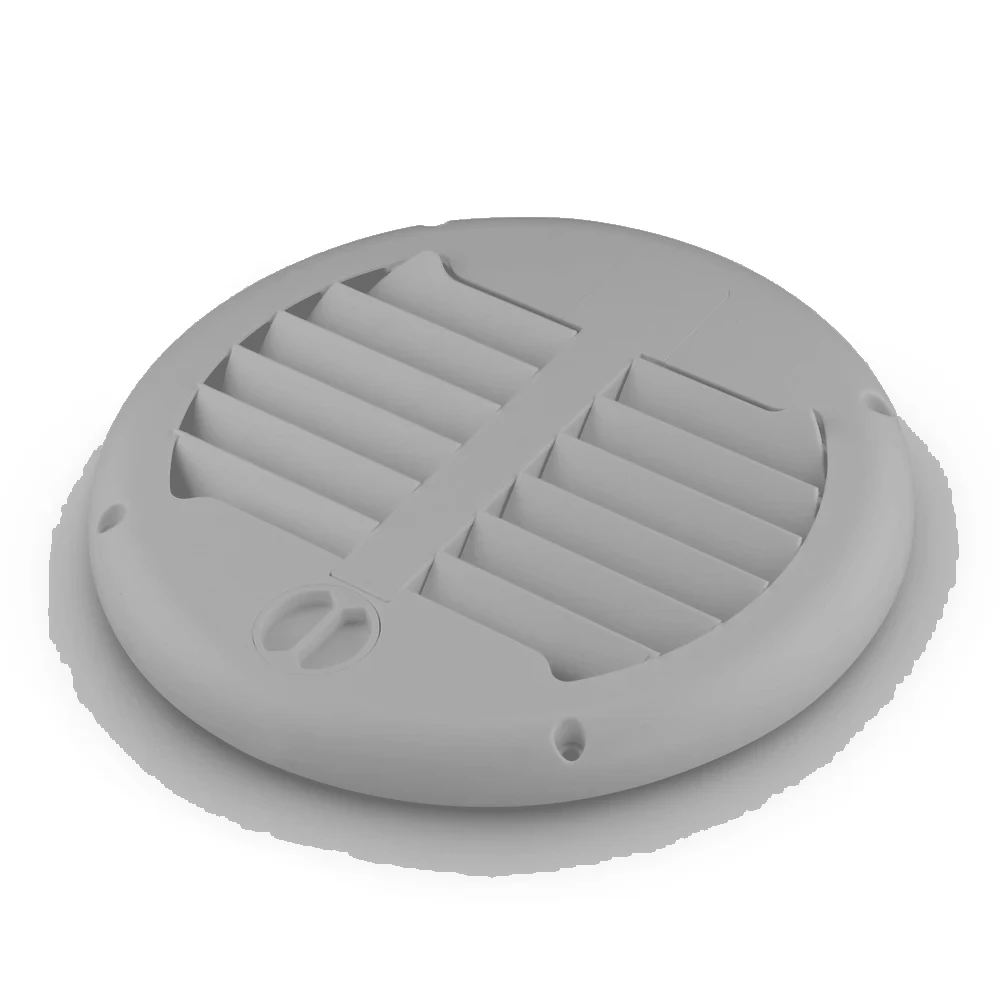
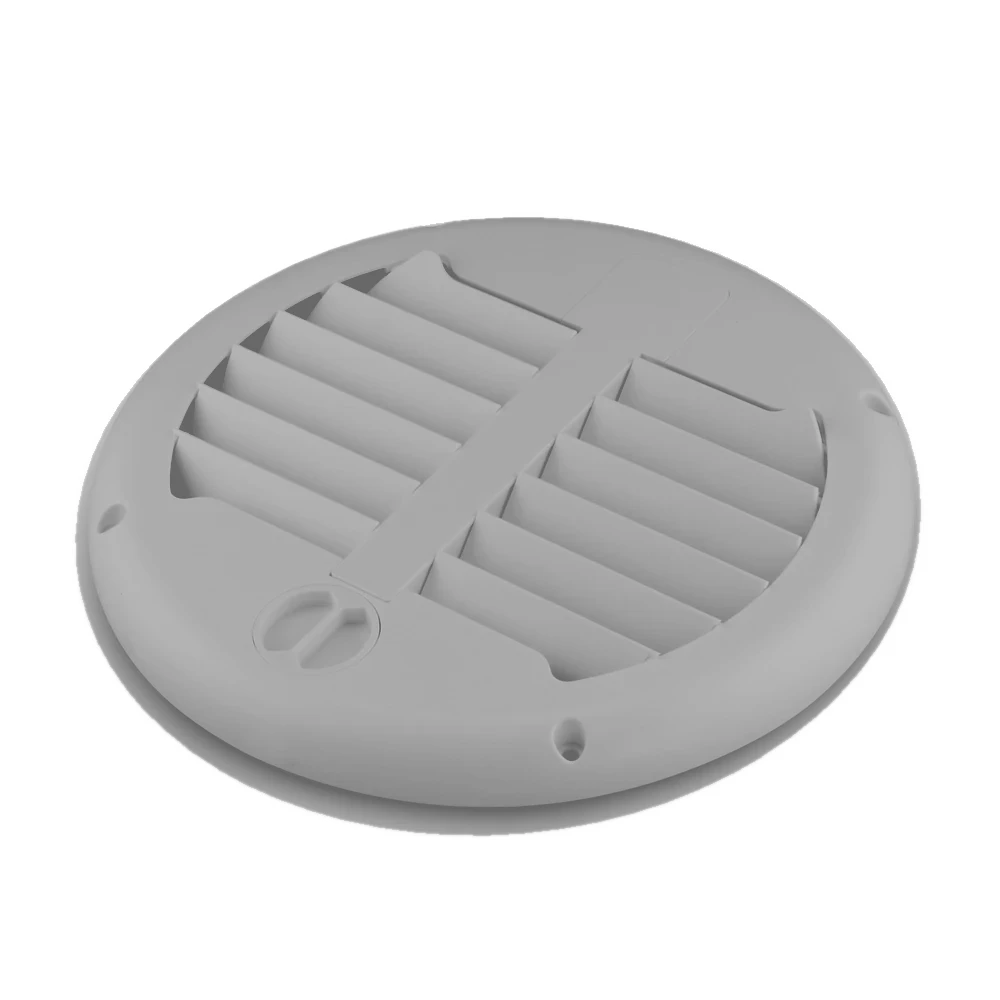
Manuális belső takaró, szürke: a kép a lágy árnyékfolt nélkül, sima körvonallal (a korong körvonala ellipszissel illesztve)
Claude-Session: https://claude.ai/code/session_01GqcGcrqDWYvNfyrVUkczEM

Changed region(s): [[0.031, 0.434, 0.961, 0.899], [0.868, 0.372, 0.899, 0.403], [0.093, 0.403, 0.124, 0.434]]

diff --git a/scripts/termekadatok/gnc_szinek.py b/scripts/termekadatok/gnc_szinek.py
@@ -30,7 +30,7 @@ RECOLOR = {
     "ventillator-belso-takaro": ("ventillator-belso-takaro-szurke", "feher"),
     "ventillator-belso-takaro-12-24v-led": ("ventillator-belso-takaro-szurke", "feher"),
     "ventillator-belso-takaro-szurke": ("ventillator-belso-takaro-szurke", "szurke"),
-    "manualis-belso-takaro-szurke": ("manualis-belso-takaro-feher", "szurke"),
+    "manualis-belso-takaro-szurke": ("manualis-belso-takaro-feher", "szurke", "korong"),  # a lágy árnyék nélkül
     "belso-12v-os-led-takaro-flower-power-feher": ("belso-12v-os-led-takaro-flower-power-szurke", "feher_sotet_reszek"),
     "belso-24-v-os-led-vilagitassal-flower-power-feher": ("belso-12v-os-led-takaro-flower-power-szurke", "feher_sotet_reszek"),
 }
@@ -50,7 +50,37 @@ def product_mask(a, limit=238):
     return np.asarray(bg) != 128
 
 
-def recolor(img, target):
+def disk_mask(lum):
+    """Lapos, kerek termék (pl. belső takaró) körvonala: a felülnézeti ellipszis a tiszta felső ívből és a sötét
+    alsó peremből illesztve (a kettő közti eltolás a korong vastagsága), így a lágy árnyék nem a termék része."""
+    H, W = lum.shape
+    top, bot = [], []
+    for x in range(int(W * 0.09), int(W * 0.92), 4):
+        t, b = np.where(lum[:, x] < 246)[0], np.where(lum[:, x] < 200)[0]
+        if len(t):
+            top.append((x, t.min()))
+        if len(b):
+            bot.append((x, b.max()))
+    top, bot = np.array(top, float), np.array(bot, float)
+    cy = (top[:, 1].min() + bot[:, 1].max()) / 2
+    top, bot = top[top[:, 1] < cy - 60], bot[bot[:, 1] > cy + 60]
+    best = None
+    for t in range(0, 60, 2):
+        P = np.vstack([top, bot - [0, t]]).astype(np.float32)
+        e = cv2.fitEllipse(P.reshape(-1, 1, 2))
+        (ex, ey), (w, h), ang = e
+        M = cv2.ellipse2Poly((int(ex), int(ey)), (int(w / 2), int(h / 2)), int(ang), 0, 360, 2)
+        d = np.mean([np.min(np.hypot(*(M - p).T)) for p in P])
+        if best is None or d < best[0]:
+            best = (d, t, e)
+    _, t, ((ex, ey), (w, h), ang) = best
+    mask = np.zeros((H, W), np.uint8)
+    for dy in range(t + 1):
+        cv2.ellipse(mask, ((ex, ey + dy), (w, h), ang), 255, -1)
+    return mask > 0
+
+
+def recolor(img, target, disk=False):
     rgba = img.convert("RGBA")
     a = np.asarray(rgba).astype(float)
     rgb, alpha = a[..., :3], a[..., 3]
@@ -60,7 +90,9 @@ def recolor(img, target):
     # világos forrásnál a háttér a tiszta fehér (a termék csillanása ne „folyjon ki” a háttérbe),
     # és csak a legnagyobb összefüggő folt a termék (a lágy árnyék apró foltjai nem)
     mask = product_mask(rgb, 246) & (alpha > 0) if light_src else mask0
-    if light_src:
+    if disk:
+        mask = disk_mask(lum)
+    elif light_src:
         # a lágy árnyék vékony peremét morfológiai nyitással leválasztjuk, majd a legnagyobb folt a termék
         m8 = cv2.morphologyEx(mask.astype(np.uint8), cv2.MORPH_OPEN, cv2.getStructuringElement(cv2.MORPH_ELLIPSE, (9, 9)))
         n, labels, stats, _ = cv2.connectedComponentsWithStats(m8, connectivity=8)
@@ -88,6 +120,9 @@ def recolor(img, target):
         w = np.ones_like(lum) if light_src else np.clip((200 - lum) / 45, 0, 1)  # átmenet az árnyék felé
         blend = rgb * (1 - w[..., None]) + np.repeat(new[..., None], 3, axis=2) * w[..., None]
         out[mask] = blend[mask]
+    if disk:  # a háttér (a lágy árnyékkal együtt) tiszta fehér, a körvonal élsimítva
+        soft = cv2.GaussianBlur(mask.astype(np.float32), (0, 0), 1.2)[..., None]
+        out = out * soft + 255 * (1 - soft)
     res = np.dstack([np.clip(out, 0, 255), alpha]).astype(np.uint8)
     return Image.fromarray(res, "RGBA")
 
@@ -95,7 +130,7 @@ def recolor(img, target):
 def main():
     enrichment = json.loads((ROOT / "src/data/termekadatok.json").read_text())
     ORIG.mkdir(parents=True, exist_ok=True)
-    for slug, (src, target) in RECOLOR.items():
+    for slug, (src, target, *mode) in RECOLOR.items():
         src_img = enrichment.get(src, {}).get("images", [])
         dst_img = enrichment.get(slug, {}).get("images", [])
         if not src_img or not dst_img:
@@ -105,7 +140,7 @@ def main():
         keep = ORIG / f"{src}.webp"
         if not keep.exists():
             keep.write_bytes(src_path.read_bytes())
-        out = recolor(Image.open(keep), target)
+        out = recolor(Image.open(keep), target, disk="korong" in mode)
         if is_protected(dst_img[0]):  # kézzel feljavított kép: marad
             continue
         out.save(ROOT / "public" / dst_img[0].lstrip("/"), "WEBP", quality=90)
